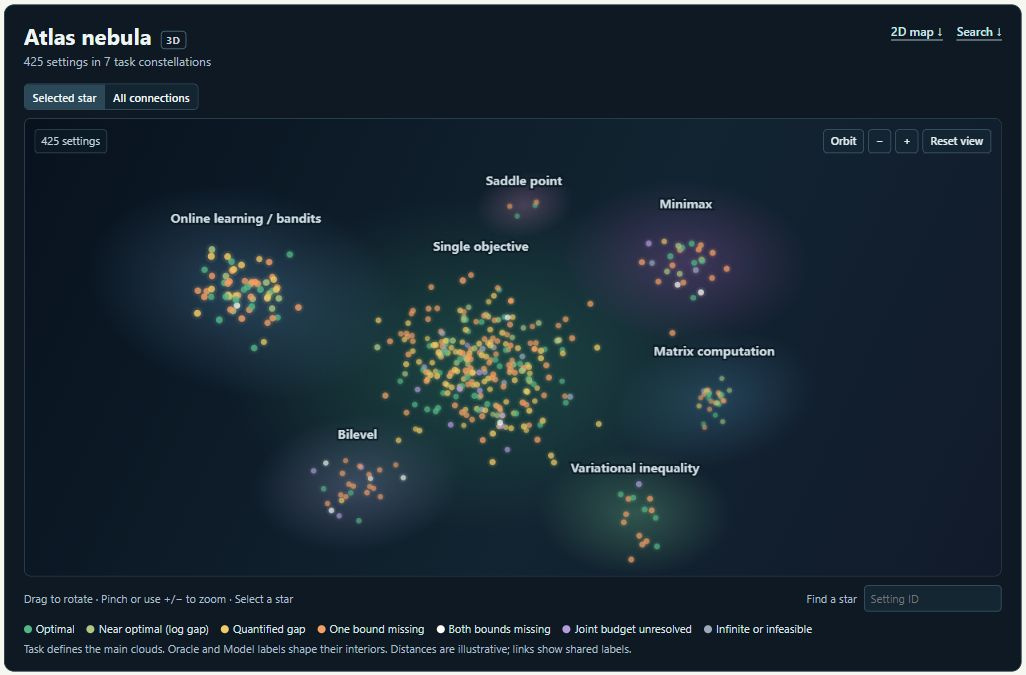
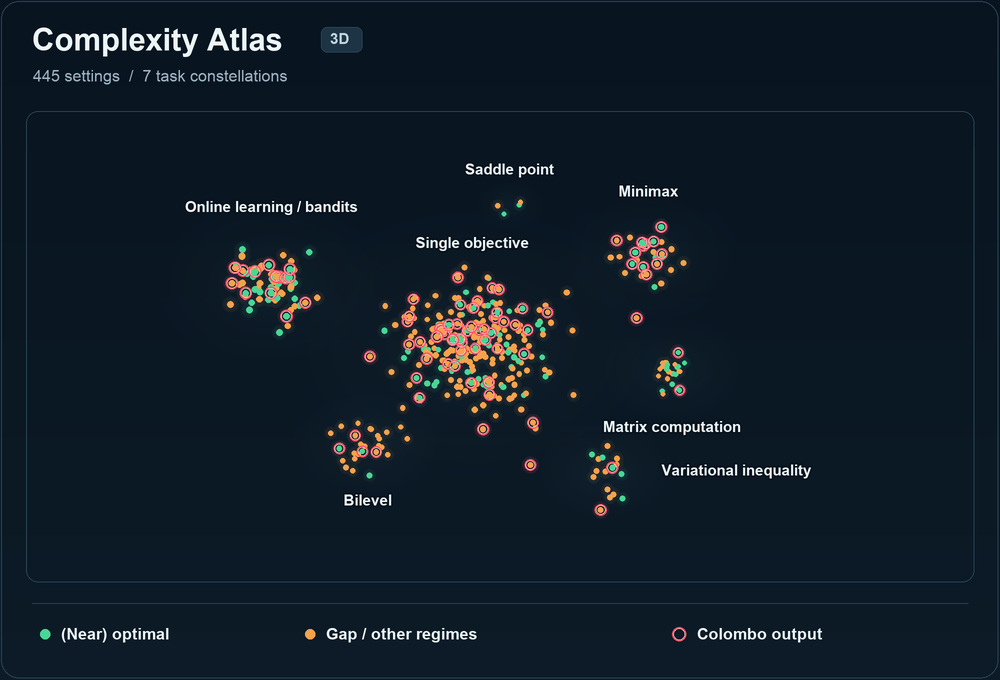
docs: style citation and refresh the simplified Atlas preview

Changed region(s): [[0.155, 0.2178, 0.806, 0.84], [0.0, 0.0, 1.0, 1.0], [0.806, 0.1867, 0.961, 0.2489]]

diff --git a/assets/generate_atlas_preview.py b/assets/generate_atlas_preview.py
@@ -1,0 +1,271 @@
+#!/usr/bin/env python3
+"""Render the README preview from the current Atlas layout and setting statuses.
+
+Run with Python 3 and Pillow installed:
+    python assets/generate_atlas_preview.py
+
+The presentation is deliberately simpler than the interactive Atlas. It uses
+the Atlas's aggregate status per setting, its exact 3D positions, and its
+adopted Colombo markers. Native records and the interactive Atlas are untouched.
+"""
+
+from __future__ import annotations
+
+import argparse
+from collections import Counter
+import hashlib
+import json
+import math
+from pathlib import Path
+
+from PIL import Image, ImageDraw, ImageFilter, ImageFont
+
+
+ROOT = Path(__file__).resolve().parents[1]
+DATA = ROOT / "colombo_sensorium/Complexity_altas/data/derived"
+WIDTH, HEIGHT = 1000, 680
+SUPERSAMPLE = 2
+GREEN = "#49d696"
+ORANGE = "#f6a24d"
+CORAL = "#ff5266"
+PALE_RIM = "#fff1ea"
+TEXT = "#ecf5f8"
+MUTED = "#9db2c1"
+BG = "#08131e"
+SCENE = (26, 111, WIDTH - 26, 582)
+
+
+def rgb(color):
+    return tuple(bytes.fromhex(color.lstrip("#")))
+
+
+def font(size, bold=False):
+    names = [
+        Path("/System/Library/Fonts/Supplemental") /
+        ("Arial Bold.ttf" if bold else "Arial.ttf"),
+        Path("/usr/share/fonts/truetype/dejavu") /
+        ("DejaVuSans-Bold.ttf" if bold else "DejaVuSans.ttf"),
+    ]
+    for path in names:
+        if path.exists():
+            return ImageFont.truetype(str(path), round(size * SUPERSAMPLE))
+    return ImageFont.load_default(size=round(size * SUPERSAMPLE))
+
+
+def box(coords):
+    return tuple(round(x * SUPERSAMPLE) for x in coords)
+
+
+def ellipse(draw, x, y, radius, fill=None, outline=None, width=1):
+    draw.ellipse(box((x - radius, y - radius, x + radius, y + radius)),
+                 fill=fill, outline=outline, width=round(width * SUPERSAMPLE))
+
+
+def load_data():
+    overview_path = DATA / "atlas_overview.json"
+    layout_path = DATA / "atlas_nebula.json"
+    overview = json.loads(overview_path.read_text())
+    layout = json.loads(layout_path.read_text())
+    points = overview["points"]
+    ids = {p["id"] for p in points}
+    assert len(ids) == len(points) == len(layout["positions"])
+    assert ids == set(layout["positions"])
+    assert all(p["status"] in {x["id"] for x in overview["status_legend"]}
+               for p in points)
+    for p in points:
+        p["xyz"] = layout["positions"][p["id"]]
+        p["preview_color"] = GREEN if p["status"] in {"optimal", "near"} else ORANGE
+        p["marked"] = p.get("colombo", {}).get("state") == "adopted"
+    summary = {
+        "settings": len(points),
+        "task_clusters": len(layout["clusters"]),
+        "green": sum(p["preview_color"] == GREEN for p in points),
+        "orange": sum(p["preview_color"] == ORANGE for p in points),
+        "colombo_rings": sum(p["marked"] for p in points),
+        "native_statuses": dict(Counter(p["status"] for p in points)),
+        "overview_sha256": hashlib.sha256(overview_path.read_bytes()).hexdigest(),
+        "layout_sha256": hashlib.sha256(layout_path.read_bytes()).hexdigest(),
+    }
+    return points, layout, summary
+
+
+def view(xyz, yaw):
+    x, y, z = xyz
+    pitch = .19
+    sy, cy, sp, cp = math.sin(yaw), math.cos(yaw), math.sin(pitch), math.cos(pitch)
+    x1, z1 = x * cy - z * sy, x * sy + z * cy
+    y2, z2 = y * cp - z1 * sp, y * sp + z1 * cp
+    depth = 6.9 / (6.9 - z2)
+    return x1 * depth, -y2 * depth, z2, depth
+
+
+def scene_scale(points):
+    # Fit every star and its outer halo throughout the full orbit, with one
+    # fixed camera scale so that the animation never breathes or clips points.
+    samples = [view(p["xyz"], math.tau * i / 256) for p in points for i in range(256)]
+    xmax = max(abs(p[0]) for p in samples)
+    ymin, ymax = min(p[1] for p in samples), max(p[1] for p in samples)
+    cx, cy = WIDTH / 2, 348
+    return min((SCENE[2] - cx - 28) / xmax,
+               (cy - SCENE[1] - 42) / -ymin,
+               (SCENE[3] - cy - 34) / ymax)
+
+
+def background(summary):
+    im = Image.new("RGB", (WIDTH * SUPERSAMPLE, HEIGHT * SUPERSAMPLE), BG)
+    d = ImageDraw.Draw(im)
+    # Subtle vertical color shifts preserve the native dark Atlas atmosphere.
+    for y in range(HEIGHT * SUPERSAMPLE):
+        t = y / (HEIGHT * SUPERSAMPLE)
+        color = tuple(round(a + (b - a) * t) for a, b in zip((8, 20, 31), (12, 27, 39)))
+        d.line((0, y, WIDTH * SUPERSAMPLE, y), fill=color)
+    d.rounded_rectangle(box((1, 1, WIDTH - 2, HEIGHT - 2)),
+                        radius=round(18 * SUPERSAMPLE), outline="#2c4353", width=2)
+    d.text(box((32, 22)), "Complexity Atlas", font=font(31, True), fill=TEXT)
+    d.rounded_rectangle(box((321, 27, 362, 52)), radius=round(6 * SUPERSAMPLE),
+                        fill="#1c3444", outline="#355367", width=1)
+    d.text(box((330, 30)), "3D", font=font(15, True), fill="#c0d6df")
+    d.text(box((33, 67)),
+           f"{summary['settings']} settings  /  {summary['task_clusters']} task constellations",
+           font=font(16), fill=MUTED)
+    d.rounded_rectangle(box(SCENE), radius=round(12 * SUPERSAMPLE),
+                        outline="#294253", width=round(SUPERSAMPLE))
+    # The compact legend is the only status key in the README preview.
+    line_y = 603
+    d.line(box((32, line_y, WIDTH - 32, line_y)), fill="#2a3d4d", width=round(SUPERSAMPLE))
+    legend_y = 634
+    ellipse(d, 45, legend_y, 5, fill=GREEN)
+    d.text(box((61, legend_y)), "(Near) optimal", font=font(16, True), fill=TEXT, anchor="lm")
+    ellipse(d, 310, legend_y, 5, fill=ORANGE)
+    d.text(box((326, legend_y)), "Gap / other regimes", font=font(16, True), fill=TEXT, anchor="lm")
+    ellipse(d, 679, legend_y, 7, outline=CORAL, width=2)
+    ellipse(d, 679, legend_y, 5.7, outline=PALE_RIM, width=.65)
+    d.text(box((697, legend_y)), "Colombo output", font=font(16, True), fill=TEXT, anchor="lm")
+    return im
+
+
+def cloud_stamp():
+    size = 256
+    alpha = Image.new("L", (size, size))
+    d = ImageDraw.Draw(alpha)
+    for radius in range(125, 0, -1):
+        t = 1 - radius / 126
+        a = round(22 * (t ** 1.5))
+        d.ellipse((128 - radius, 128 - radius, 128 + radius, 128 + radius), fill=a)
+    cloud = Image.new("RGBA", (size, size), (70, 119, 140, 0))
+    cloud.putalpha(alpha.filter(ImageFilter.GaussianBlur(8)))
+    return cloud
+
+
+def overlaps(a, b, margin=0):
+    return (a[0] < b[2] + margin and a[2] > b[0] - margin and
+            a[1] < b[3] + margin and a[3] > b[1] - margin)
+
+
+def render(points, clusters, base, stamp, scale, yaw):
+    im = base.copy().convert("RGBA")
+    cx, cy = WIDTH / 2, 348
+
+    def project(xyz):
+        x, y, z, depth = view(xyz, yaw)
+        return cx + x * scale, cy + y * scale, z, depth
+
+    projected = [(p, project(p["xyz"])) for p in points]
+    # Haze is neutral; only actual setting cores carry the two status colors.
+    for c in sorted(clusters, key=lambda c: project(c["center"])[2]):
+        x, y, z, depth = project(c["center"])
+        radius = max(18, c["radius"] * scale * depth * 1.45)
+        sw, sh = round(radius * 2.6 * SUPERSAMPLE), round(radius * 1.85 * SUPERSAMPLE)
+        cloud = stamp.resize((sw, sh), Image.Resampling.BILINEAR)
+        im.alpha_composite(cloud, (round(x * SUPERSAMPLE - sw / 2), round(y * SUPERSAMPLE - sh / 2)))
+
+    glow = Image.new("RGBA", im.size)
+    gd = ImageDraw.Draw(glow)
+    for p, (x, y, z, depth) in projected:
+        radius = 2.65 * depth
+        color = rgb(p["preview_color"])
+        ellipse(gd, x, y, radius * 2.4, fill=color + (14,))
+        ellipse(gd, x, y, radius * 1.7, fill=color + (22,))
+        if p["marked"]:
+            ellipse(gd, x, y, radius + 5.4, outline=rgb(CORAL) + (30,), width=2.2)
+    im = Image.alpha_composite(im, glow)
+    d = ImageDraw.Draw(im)
+    # Match the native paint order: adopted output halos remain visible in
+    # dense clusters, while each core retains its mathematical-status color.
+    for p, (x, y, z, depth) in sorted(projected, key=lambda item: (item[0]["marked"], item[1][2])):
+        radius = 2.65 * depth
+        assert SCENE[0] + 8 < x < SCENE[2] - 8
+        assert SCENE[1] + 8 < y < SCENE[3] - 8
+        ellipse(d, x, y, radius, fill=p["preview_color"])
+        if p["marked"]:
+            ellipse(d, x, y, radius + 3.1, outline=CORAL, width=1.8)
+            ellipse(d, x, y, radius + 1.8, outline=PALE_RIM, width=.65)
+
+    # Upright labels follow the current task centers. Keep them away from
+    # setting cores and other labels; skip a label if an edge-on orbit has no
+    # unobstructed placement, as the interactive Atlas itself does.
+    label_boxes = []
+    f = font(15, True)
+    for c in sorted(clusters, key=lambda c: -c["count"]):
+        x, y, z, depth = project(c["center"])
+        label = c["label"]
+        tw = d.textlength(label, font=f) / SUPERSAMPLE
+        radius = c["radius"] * scale * depth
+        member_y = [pos[1] for p, pos in projected if p["task"] == c["task"]]
+        candidates = [(x, y - radius * .93 - 16), (x, min(member_y) - 25),
+                      (x, y - radius * .75 - 5),
+                      (x, y - radius * 1.20 - 20), (x, y + radius * .93 + 16),
+                      (x - radius * 1.12 - tw / 2 - 12, y),
+                      (x + radius * 1.12 + tw / 2 + 12, y)]
+        for lx, ly in candidates:
+            rect = (lx - tw / 2 - 5, ly - 11, lx + tw / 2 + 5, ly + 11)
+            if not (SCENE[0] + 9 <= rect[0] < rect[2] <= SCENE[2] - 9 and
+                    SCENE[1] + 10 <= rect[1] < rect[3] <= SCENE[3] - 10):
+                continue
+            if any(overlaps(rect, other, 6) for other in label_boxes):
+                continue
+            if any(overlaps(rect, (px - 7, py - 7, px + 7, py + 7))
+                   for _, (px, py, _, _) in projected):
+                continue
+            d.text(box((lx, ly)), label, anchor="mm", font=f, fill=TEXT,
+                   stroke_width=round(2 * SUPERSAMPLE), stroke_fill=BG)
+            label_boxes.append(rect)
+            break
+    return im.convert("RGB").resize((WIDTH, HEIGHT), Image.Resampling.LANCZOS)
+
+
+def main():
+    parser = argparse.ArgumentParser(description=__doc__)
+    parser.add_argument("--frames", type=int, default=128)
+    parser.add_argument("--duration", type=int, default=80, help="Milliseconds per frame")
+    parser.add_argument("--poster-only", action="store_true")
+    args = parser.parse_args()
+    points, layout, summary = load_data()
+    scale = scene_scale(points)
+    base, stamp = background(summary), cloud_stamp()
+    first_yaw = -.21
+    poster = render(points, layout["clusters"], base, stamp, scale, first_yaw)
+    target = ROOT / "assets"
+    poster.save(target / "complexity-atlas.jpg", quality=94, subsampling=0, optimize=True)
+    if not args.poster_only:
+        frames = [render(points, layout["clusters"], base, stamp, scale,
+                         first_yaw + math.tau * i / args.frames)
+                  for i in range(args.frames)]
+        # One palette for the entire loop avoids per-frame palette flicker.
+        samples = Image.new("RGB", (WIDTH * 4, HEIGHT * 2))
+        for i in range(8):
+            samples.paste(frames[i * len(frames) // 8], (i % 4 * WIDTH, i // 4 * HEIGHT))
+        palette = samples.quantize(colors=192, method=Image.Quantize.MEDIANCUT)
+        indexed = [f.quantize(palette=palette, dither=Image.Dither.NONE) for f in frames]
+        indexed[0].save(target / "complexity-atlas.gif", save_all=True,
+                        append_images=indexed[1:], duration=args.duration,
+                        loop=0, optimize=True, disposal=1)
+        summary["frames"] = len(frames)
+        summary["duration_ms"] = len(frames) * args.duration
+        summary["gif_bytes"] = (target / "complexity-atlas.gif").stat().st_size
+    summary["poster_bytes"] = (target / "complexity-atlas.jpg").stat().st_size
+    print(json.dumps(summary, indent=2))
+
+
+if __name__ == "__main__":
+    main()

diff --git a/README.md b/README.md
@@ -5,25 +5,26 @@
   <a href="LICENSE"><img src="https://img.shields.io/badge/License-Apache%202.0-4c1" alt="Apache 2.0 license"></a>
 </p>
 
-## Citation
-
-If Colombo informs your research, please cite the [paper](https://arxiv.org/abs/2611.23080):
-
-```bibtex
-@misc{zhang2026colombo,
-  title         = {Colombo: A Frontier-to-Frontier Autoresearch System for Oracle-Based Optimization},
-  author        = {Haihan Zhang and Wendao Wu and Chenheng Zhang and
-                   Chunyuan Zheng and Yanyi Li and Cong Fang and
-                   Haoxuan Li and Zhouchen Lin},
-  year          = {2026},
-  eprint        = {2611.23080},
-  archivePrefix = {arXiv},
-  primaryClass  = {cs.AI},
-  url           = {https://arxiv.org/abs/2611.23080}
-}
-```
-
-For authors of papers that use the Colombo system: Although optional, it is highly appreciated if you could send an email to [colombo.2026@outlook.com](mailto:colombo.2026@outlook.com) telling us your identity (name, position and affiliation) or the results obtained via Colombo (best with the link to the paper).
+> [!NOTE]
+> ## Citation
+>
+> If Colombo informs your research, please cite the [paper](https://arxiv.org/abs/2611.23080):
+>
+> ```bibtex
+> @misc{zhang2026colombo,
+>   title         = {Colombo: A Frontier-to-Frontier Autoresearch System for Oracle-Based Optimization},
+>   author        = {Haihan Zhang and Wendao Wu and Chenheng Zhang and
+>                    Chunyuan Zheng and Yanyi Li and Cong Fang and
+>                    Haoxuan Li and Zhouchen Lin},
+>   year          = {2026},
+>   eprint        = {2611.23080},
+>   archivePrefix = {arXiv},
+>   primaryClass  = {cs.AI},
+>   url           = {https://arxiv.org/abs/2611.23080}
+> }
+> ```
+>
+> For authors of papers that use the Colombo system: Although optional, it is highly appreciated if you could send an email to [colombo.2026@outlook.com](mailto:colombo.2026@outlook.com) telling us your identity (name, position and affiliation) or the results obtained via Colombo (best with the link to the paper).
 
 **Formulate problems, investigate complexity gaps, verify findings, and preserve knowledge for further discovery.**
 
@@ -131,9 +132,9 @@ These are reported research outcomes, rather than a guarantee that a new run wil
 
 Explore **445 problem settings** through an interactive 3D map, a 2D overview, and a searchable setting library.
 
-[![Animated Complexity Atlas: a rotating view of seven Task constellations, colored by complexity-bracket status](assets/complexity-atlas.gif)](#browse-without-running-agents)
+[![Animated Complexity Atlas: 445 settings in seven Task constellations, with green optimal or near-optimal points, orange gap or other regimes, and red rings for Colombo output](assets/complexity-atlas.gif)](#browse-without-running-agents)
 
-*Each point represents a problem setting. The seven constellations group settings by Task; point colors summarize their recorded Complexity Bracket status, from optimal or near-optimal bounds to unresolved gaps and missing bounds. The full legend appears below the map.*
+*Each point represents a problem setting, grouped into seven Task constellations. Green marks optimal or near-optimal settings; orange marks gap or other regimes. Red rings mark settings with Colombo output.*
 
 Select a setting in the interactive Atlas to inspect its bounds, assumptions, and sources. Distances are illustrative, and connections indicate shared classifications rather than mathematical equivalence or reductions.
 

diff --git a/colombo_sensorium/Complexity_altas/README.md b/colombo_sensorium/Complexity_altas/README.md
@@ -2,11 +2,9 @@
 
 Complexity Atlas contains scientific records and offline webpages for **445 optimization and information-reconstruction settings**. Each setting describes its mathematical model, oracle access, algorithm permissions, output, error metric, guarantee and resource budget, with bounds and evidence for explicit applicability regions.
 
-Open `index.html` to browse the library. Native records are in `data/settings/<setting_id>/`, including the profile, identity, classification, and human and machine tags. The catalog and source bindings are in `data/derived/catalog.json` and `data/derived/catalog_sources.json`. The 31 supplied Colombo manuscripts, including KIMI_001, KIMI_002, KIMI_003 and the joint stochastic bilevel complexity manuscript, and their stable source signatures are indexed in `data/sources/colombo/catalog.json`.
+Open `index.html` to browse the library. Native records are in `data/settings/<setting_id>/`, including the profile, identity, classification, and human and machine tags. The catalog and source bindings are in `data/derived/catalog.json` and `data/derived/catalog_sources.json`. The bundled manuscripts are indexed in `data/sources/colombo/catalog.json`.
 
 The `★ Colombo` contribution marker currently covers 85 settings: 49 supported by the public-paper registry and 38 supported by bundled manuscripts, with two overlaps. Two pending claims remain in the provenance registry and are excluded from adopted coverage. The 39 historical near-optimal highlight selections are a narrower subset. Current markers follow selected native support and preserve each comparison's rate status, including remaining gaps. `data/derived/colombo_contributions.json` provides the merged provenance; its 22 arXiv entries and 31 local manuscript entries are source records, not a deduplicated count of independent works.
-
-The setting pages and profile downloads describe the current manuscript contributions of N01, A4 and U10: N01's alternative construction and measurable transfer framework, A4's alternative smooth macro-block construction, and U10's uniform bounds and boundary geometry. The corresponding known-rate acknowledgements are retained.
 
 PDF, TeX and Markdown versions of each profile are available in `visualization/dist/downloads/<setting_id>/profile.*`.
 
